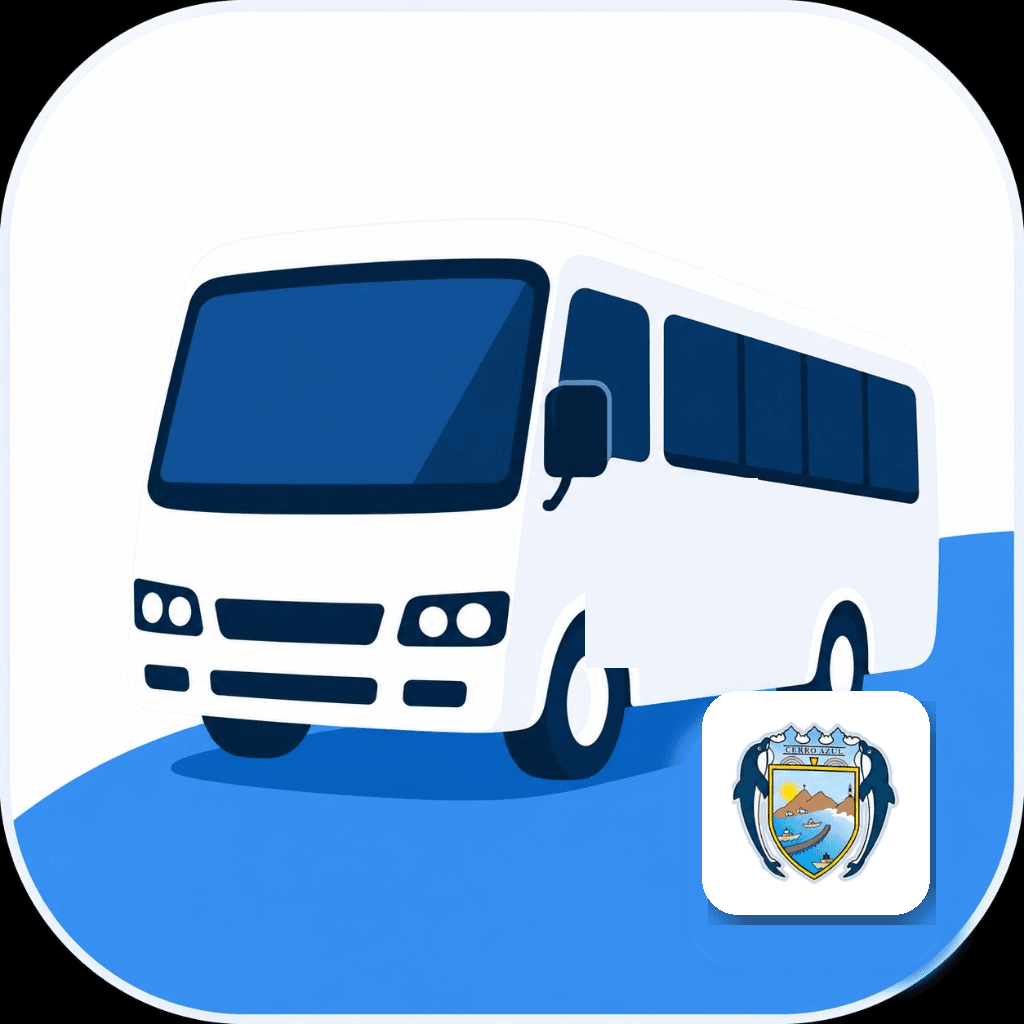
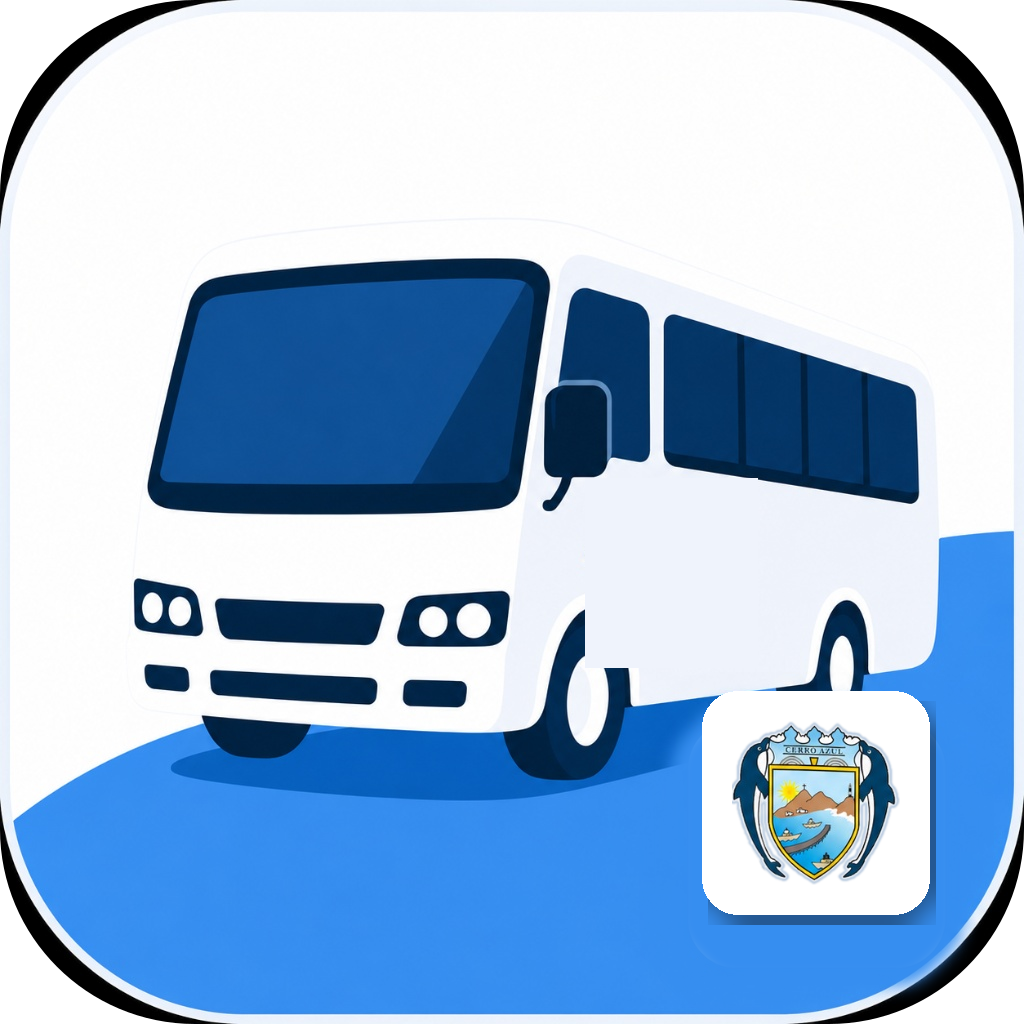
fix: corregir detalles hallados al probar el rediseno
Restaura la fuente del icono y recorta sus esquinas negras, sube el
contraste de textos en tema oscuro, evita cortar el subtitulo de la
cabecera y oculta el aviso sin accion en la vista de la manana.

diff --git a/mobile/src/features/trips/components/scanner/ScannerControlPanel.tsx b/mobile/src/features/trips/components/scanner/ScannerControlPanel.tsx
@@ -226,7 +226,7 @@ export function ScannerControlPanel({
         },
         secondaryActionLabel: {
           ...tokens.typography.bodyStrong,
-          color: colors.primary,
+          color: colors.textLink,
         },
         intentBadge: {
           flexDirection: "row",
@@ -395,7 +395,7 @@ export function ScannerControlPanel({
             style={[styles.secondaryAction, styles.footerAction]}
             contentStyle={styles.secondaryActionContent}
             labelStyle={styles.secondaryActionLabel}
-            textColor={colors.primary}
+            textColor={colors.tripActionOutlineText}
           >
             {resetLabel}
           </Button>

diff --git a/mobile/src/features/trips/screens/RosterScreen.tsx b/mobile/src/features/trips/screens/RosterScreen.tsx
@@ -360,7 +360,7 @@ export default function RosterScreen() {
 
         <RosterTurnHintBanner turnType={activeTrip.turn_type} />
 
-        {roster.isAfternoonReturn ? (
+        {roster.isAfternoonReturn && roster.viewMode !== "prioritarios" ? (
           <MorningRiderReminderBanner
             count={roster.stats.morningRiderPendingCount}
             preview={roster.morningRidersPreview}

diff --git a/mobile/src/features/trips/components/StudentConfirmModal.tsx b/mobile/src/features/trips/components/StudentConfirmModal.tsx
@@ -203,7 +203,7 @@ export function StudentConfirmModal({
                   </Button>
                   <Button
                     mode="outlined"
-                    textColor={colors.primary}
+                    textColor={colors.tripActionOutlineText}
                     onPress={() => {
                       if (!isSubmitting) {
                         onDismiss();

diff --git a/mobile/src/shared/ui/WaveHeader.tsx b/mobile/src/shared/ui/WaveHeader.tsx
@@ -64,7 +64,7 @@ export function WaveHeader({ title, subtitle, onBack, right, children }: WaveHea
           </Text>
           {subtitle ? (
             <Text
-              numberOfLines={1}
+              numberOfLines={2}
               style={[tokens.typography.caption, { color: colors.onHeaderMuted }]}
             >
               {subtitle}

diff --git a/mobile/src/features/trips/components/scanner/StudentCandidateList.tsx b/mobile/src/features/trips/components/scanner/StudentCandidateList.tsx
@@ -104,7 +104,7 @@ export function StudentCandidateList({ candidates, onSelect }: StudentCandidateL
         },
         chooseLabel: {
           ...tokens.typography.label,
-          color: colors.primary,
+          color: colors.textLink,
         },
       }),
     [colors, tokens],

diff --git a/mobile/src/features/trips/components/scanner/ScannerFeedbackDock.tsx b/mobile/src/features/trips/components/scanner/ScannerFeedbackDock.tsx
@@ -104,7 +104,7 @@ export function ScannerFeedbackDock({
         },
         resetLabel: {
           ...tokens.typography.label,
-          color: colors.primary,
+          color: colors.textLink,
         },
       }),
     [colors, tokens],
